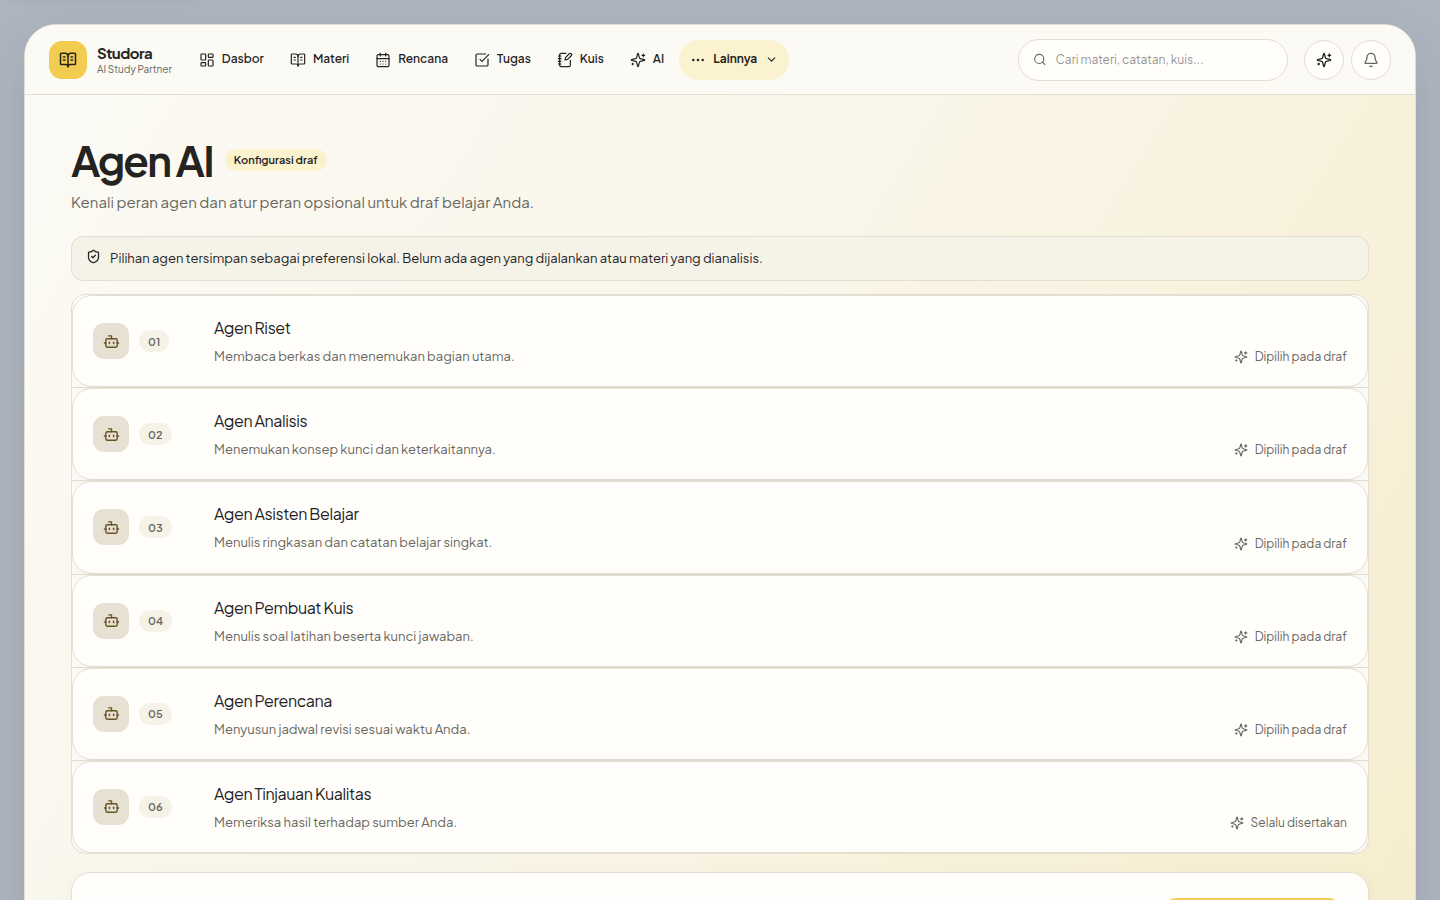
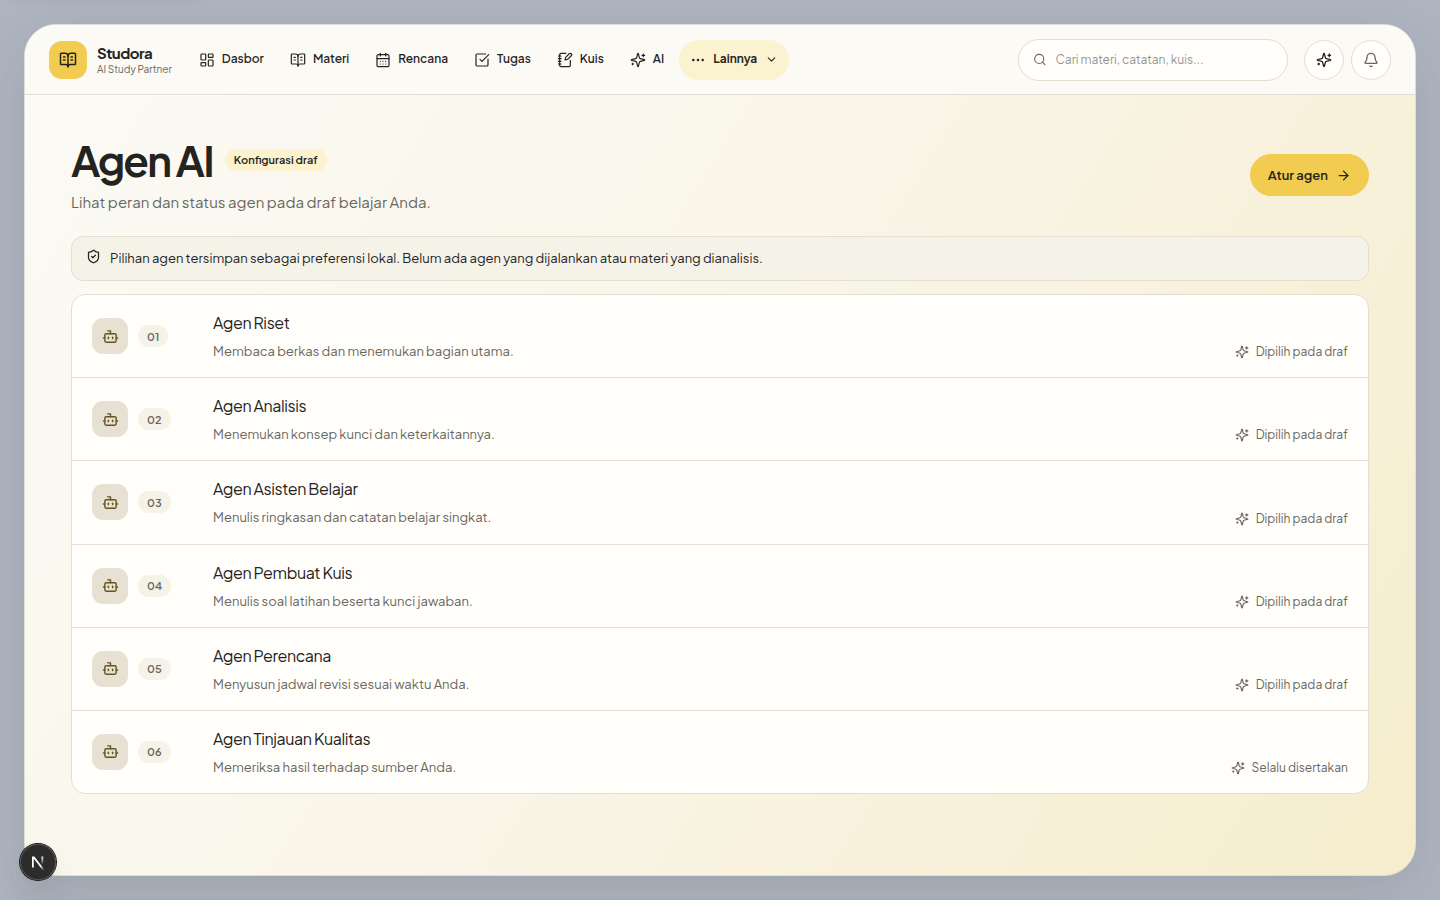
fix: polish AI surfaces and refresh README screenshots

Changed region(s): [[0.0, 0.3422, 1.0, 1.0], [0.0312, 0.2178, 0.375, 0.2489], [0.8438, 0.1556, 0.9688, 0.2178]]

diff --git a/src/components/screens/AgentsScreen.tsx b/src/components/screens/AgentsScreen.tsx
@@ -12,7 +12,7 @@ export function AgentsScreen() {
   const enabledAgentIds = useStudoraStore((state) => state.workspacePreferences.enabledAgentIds);
   return (
     <main className="page-content">
-      <PageHeading title="Agen AI" description="Kenali peran agen dan atur peran opsional untuk draf belajar Anda." aside={<Badge tone="blue">Konfigurasi draf</Badge>} />
+      <PageHeading title="Agen AI" description="Lihat peran dan status agen pada draf belajar Anda." aside={<Badge tone="blue">Konfigurasi draf</Badge>} action={<Link className="button button-primary" href="/workspace-ai?settings=1">Atur agen<ArrowRight size={15} aria-hidden="true" /></Link>} />
       <div className="notice notice-blue page-notice"><ShieldCheck size={15} aria-hidden="true" />Pilihan agen tersimpan sebagai preferensi lokal. Belum ada agen yang dijalankan atau materi yang dianalisis.</div>
       <ol className="agent-catalog" aria-label="Urutan peran agen AI">
         {agents.map((agent, index) => (
@@ -24,10 +24,6 @@ export function AgentsScreen() {
           </Card></li>
         ))}
       </ol>
-      <Card className="agent-catalog-cta">
-        <div><h2>Atur preferensi untuk draf Anda</h2><p>Di Ruang Kerja, Anda dapat meninjau pilihan agen dan batas materi yang dipakai saat layanan tersedia.</p></div>
-        <Link className="button button-primary" href="/workspace-ai?settings=1">Buka pengaturan alur<ArrowRight size={15} aria-hidden="true" /></Link>
-      </Card>
     </main>
   );
 }

diff --git a/src/app/globals.css b/src/app/globals.css
@@ -2421,3 +2421,12 @@ button:focus-visible, a:focus-visible, input:focus-visible, select:focus-visible
   .material-picker-dialog-heading p { margin-top: 4px; line-height: 1.4; }
   .material-picker-list { gap: 6px; }
 }
+
+/* Assistant surface and ordered agent catalog refinements */
+.assistant-drawer { background: var(--surface); }
+.assistant-messages { background: var(--surface-soft); }
+.assistant-composer { background: var(--surface-raised); }
+.assistant-composer:focus-within { border-color: var(--focus-ring); outline: none; box-shadow: none; }
+.assistant-composer:has(textarea:focus-visible) { outline: 2px solid color-mix(in srgb, var(--focus-ring) 54%, transparent); outline-offset: 2px; }
+.assistant-composer textarea:focus-visible { outline: none; }
+.agent-catalog > li > .agent-catalog-card { border: 0; border-radius: 0; background: transparent; box-shadow: none; padding: 16px 20px; }

diff --git a/README.md b/README.md
@@ -9,7 +9,11 @@ Studora is a study partner for university students. This repository contains the
 <sub>Dashboard preview using the built-in sample learning pack. The screenshots below show the current interface; study data in the prototype is stored locally in the browser.</sub>
 
 <details>
-<summary>Explore the dark theme and all 12 other pages</summary>
+<summary>Explore the dark theme, global AI assistant, and all 12 other pages</summary>
+
+### Global AI assistant
+
+![Studora global AI assistant with the dashboard behind it](docs/assistant-ai.png)
 
 ### Dashboard — dark theme
 
